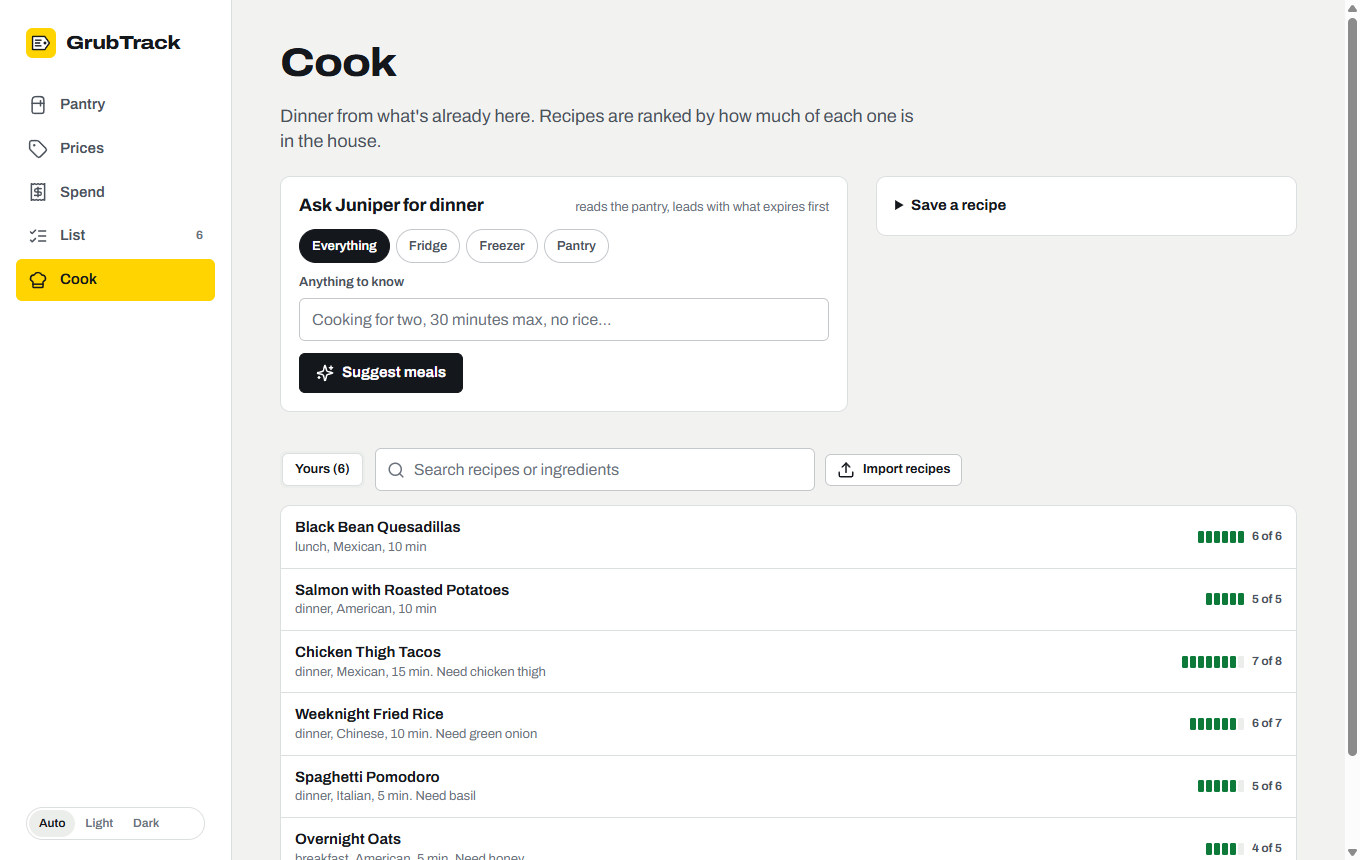
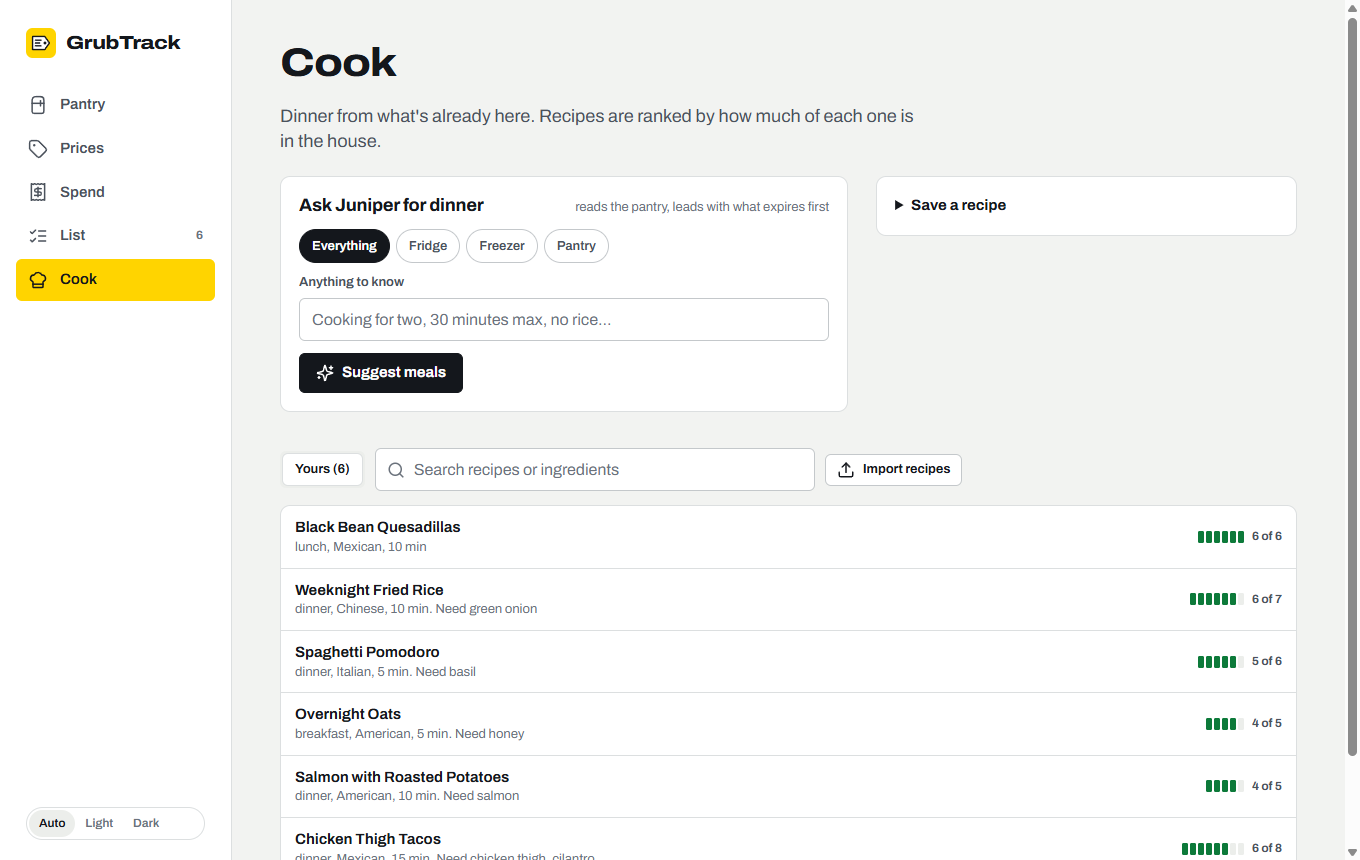
Fix the store sheet crash, the pantry stock line, phone tables and text slips

diff --git a/frontend/src/sheets/ProductSheet.jsx b/frontend/src/sheets/ProductSheet.jsx
@@ -141,19 +141,21 @@ export default function ProductSheet({ id, onClose }) {
           {p.stores?.length > 1 && (
             <div className="block">
               <div className="block-title">By store <small>{perLabel(b)}</small></div>
-              <table className="tbl">
-                <thead><tr><th>Store</th><th className="r">Last</th><th className="r">Average</th><th className="r">Bought</th></tr></thead>
-                <tbody>
-                  {p.stores.map((s) => (
-                    <tr key={s.storeId || 'none'}>
-                      <td><StoreKey id={s.storeId} name={s.store} /></td>
-                      <td className="r">{money(s.last, b)}</td>
-                      <td className="r">{money(s.avg, b)}</td>
-                      <td className="r">{s.n}×</td>
-                    </tr>
-                  ))}
-                </tbody>
-              </table>
+              <div className="tbl-wrap">
+                <table className="tbl">
+                  <thead><tr><th>Store</th><th className="r">Last</th><th className="r">Average</th><th className="r">Bought</th></tr></thead>
+                  <tbody>
+                    {p.stores.map((s) => (
+                      <tr key={s.storeId || 'none'}>
+                        <td><StoreKey id={s.storeId} name={s.store} /></td>
+                        <td className="r nowrap">{money(s.last, b)}</td>
+                        <td className="r nowrap">{money(s.avg, b)}</td>
+                        <td className="r nowrap">{s.n}×</td>
+                      </tr>
+                    ))}
+                  </tbody>
+                </table>
+              </div>
               {p.storeGap && <p className="note" style={{ marginTop: 8 }}>{p.storeGap.cheap} is {p.storeGap.pct}% cheaper than {p.storeGap.dear} on the latest shelf prices.</p>}
             </div>
           )}

diff --git a/frontend/src/sheets/RecipeSheet.jsx b/frontend/src/sheets/RecipeSheet.jsx
@@ -59,7 +59,11 @@ export default function RecipeSheet({ id, onClose }) {
     setEnrichErr(null)
     try { await post('/recipes/bulk/enrich', { slug: id }); qc.invalidateQueries({ queryKey: ['recipe', id] }) } catch (e) { setEnrichErr(e) } finally { setEnriching(false) }
   }
-  const body = r?.markdown ? r.markdown.replace(/^---[\s\S]*?\n---\s*\n/, '').replace(/^# .*\n/, '') : null
+  // the markdown below the title, without the Ingredients list (shown above, line by line) or a heading of its
+  // own for the method: the block is already titled Method
+  const body = r?.markdown ? r.markdown.replace(/^---[\s\S]*?\n---\s*\n/, '').replace(/^# .*\n/, '')
+    .replace(/##\s*Ingredients[\s\S]*?(?=\n##|$)/i, '')
+    .replace(/^\s*#{2,3}\s*(instructions|method|directions|steps|preparation)\s*\n/i, '').trim() : null
   return (
     <Sheet wide title={r?.title || 'Recipe'} onClose={onClose}
       footer={r && need.length > 0 && <button className="btn btn--ink" onClick={addMissing}><Plus aria-hidden="true" />Add {need.length} missing to the list</button>}>
@@ -97,7 +101,7 @@ export default function RecipeSheet({ id, onClose }) {
           <div className="block">
             <div className="block-title">Method</div>
             {body
-              ? <div className="md"><ReactMarkdown remarkPlugins={[remarkGfm]}>{body.replace(/##\s*Ingredients[\s\S]*?(?=\n##|$)/i, '')}</ReactMarkdown></div>
+              ? <div className="md"><ReactMarkdown remarkPlugins={[remarkGfm]}>{body}</ReactMarkdown></div>
               : <div className="md" style={{ whiteSpace: 'pre-wrap' }}>{r.instructions || 'No method recorded.'}</div>}
           </div>
           <div className="block">

diff --git a/frontend/src/styles/app.css b/frontend/src/styles/app.css
@@ -162,6 +162,9 @@ img { max-width: 100%; display: block; }
 .btn--danger { color: var(--up); }
 .btn[disabled] { opacity: 0.45; cursor: default; }
 .btn-row { display: flex; flex-wrap: wrap; gap: 8px; align-items: center; }
+/* a tappable word inside a sentence: no box and the sentence's own font, so the punctuation after it sits tight */
+.textbtn { display: inline; padding: 0; border: 0; background: none; font: inherit; font-weight: 600; color: inherit; cursor: pointer; }
+.textbtn:hover { text-decoration: underline; }
 
 .iconbtn {
   display: inline-grid; place-items: center; width: 40px; height: 40px;
@@ -298,6 +301,9 @@ img { max-width: 100%; display: block; }
 
 .storekey { display: inline-flex; align-items: center; gap: 6px; white-space: nowrap; }
 .storekey i { width: 9px; height: 9px; border-radius: 50%; flex: none; box-shadow: 0 0 0 2px var(--surface); }
+/* in a table cell a long store name wraps beside its dot instead of widening the table past a phone screen */
+.tbl .storekey { white-space: normal; align-items: flex-start; }
+.tbl .storekey i { margin-top: 0.4em; }
 
 /* --------------------------------------------------------------- lists */
 

diff --git a/frontend/src/sheets/StoreSheet.jsx b/frontend/src/sheets/StoreSheet.jsx
@@ -25,7 +25,7 @@ export default function StoreSheet({ id, onClose }) {
             {s.address ? `, ${s.address}` : ''}{s.city ? `, ${s.city}` : ''}{s.storeNumber ? `, store #${s.storeNumber}` : ''}.
           </p>
           <div className="figures block">
-            <div className="figure"><span>Trips</span><b>{s.trips}</b><small>{s.firstVisit ? `since ${shortDate(s.firstVisit)}` : ''}</small></div>
+            <div className="figure"><span>Trips</span><b>{s.tripCount ?? s.trips.length}</b><small>{s.firstVisit ? `since ${shortDate(s.firstVisit)}` : ''}</small></div>
             <div className="figure"><span>Spent</span><b>{dollars(s.spend, { cents: false })}</b><small>{s.avgBasket ? `${dollars(s.avgBasket, { cents: false })} a trip` : ''}</small></div>
             <div className="figure"><span>Saved</span><b>{dollars(s.saved || 0, { cents: false })}</b><small>sales and coupons</small></div>
             {idx && (

diff --git a/frontend/src/pages/List.jsx b/frontend/src/pages/List.jsx
@@ -22,7 +22,7 @@ function Line({ row, onDone }) {
         <span className="row__meta" style={{ display: 'block' }}>
           {e?.match ? (
             <>
-              <button className="btn btn--ghost btn--sm" style={{ padding: 0, minHeight: 0, fontWeight: 500, color: 'inherit' }} onClick={() => open('product', e.productId)}>
+              <button className="textbtn" onClick={() => open('product', e.productId)}>
                 {e.match === 'exact' || clean(e.product || '').toLowerCase() === clean(row.name).toLowerCase() ? 'Last time' : `Like ${e.product}`}
               </button>
               {e.range ? `, ${dollars(e.range[0])} to ${dollars(e.range[1])} across ${e.kinds} kinds` : ''}

diff --git a/frontend/src/pages/Pantry.jsx b/frontend/src/pages/Pantry.jsx
@@ -197,7 +197,7 @@ export default function Pantry() {
         </div>
         {view === 'past' && past.length > 0 && (
           <p className="note" style={{ marginTop: 14 }}>
-            Past their date and still on record. Nothing leaves unless you mark it, and marking keeps the record:
+            Past their date and still on record. Nothing leaves unless you mark it, and marking keeps the record:{' '}
             <b>Ate it</b> and <b>Tossed</b> feed the restock ideas and the waste numbers.
           </p>
         )}

diff --git a/tests/test_api.py b/tests/test_api.py
@@ -105,8 +105,13 @@ def test_receipt_flow_and_prices(client):
 
     sp = client.get("/api/spend").json()
     assert sp["spend"]["trips"][0]["total"] == 13.48
-    store = client.get(f"/api/stores/{sp['stores'][0]['id']}").json()
-    assert store["trips"] and store["products"]
+    listed = sp["stores"][0]
+    store = client.get(f"/api/stores/{listed['id']}").json()
+    # the store list counts trips; one store's page lists them (`trips`) and carries the count as `tripCount`,
+    # which the store sheet shows (it used to render the list itself and crash)
+    assert isinstance(listed["trips"], int) and isinstance(store["tripCount"], int)
+    assert store["tripCount"] == listed["trips"] == len(store["trips"]) == 1
+    assert store["trips"][0]["id"] == rid and store["trips"][0]["total"] == 13.48 and store["products"]
 
 
 def test_shopping_uses_the_shared_table(client):
@@ -134,6 +139,49 @@ def test_recipes_know_whats_in_the_house(client):
     assert client.post("/api/recipes", json={"title": "X"}).status_code == 403  # saving is off here
     assert client.put("/api/recipes/egg-fried-rice/journal", json={"score": 9, "tags": ["weeknight"]}).json()["ok"]
     assert client.get("/api/recipes/egg-fried-rice/journal").json()["entry"]["score"] == 9
+
+
+def test_past_date_food_is_not_on_hand_for_cooking(client):
+    """Recipe ranking and the meal-ideas prompt agree: food past its date counts for neither, food dated
+    today counts for both."""
+    import datetime as dt
+    from app.db import connect
+    from app.routes import cook
+
+    def prompt():
+        con = connect()
+        try:
+            return cook._meal_prompt(con, None, "")
+        finally:
+            con.close()
+
+    def soy_line():
+        rice = client.get("/api/recipes/egg-fried-rice").json()
+        return next(l for l in rice["lines"] if "soy sauce" in l["text"]), rice["make"]
+
+    soy = client.post("/api/items", json={"name": "Soy sauce", "storage": "pantry", "expirationDate": "2000-01-01"}).json()
+    line, make = soy_line()
+    assert line["have"] is False and "soy sauce" in make["need"]
+    assert "Soy sauce" not in prompt()
+    mine = next(r for r in client.get("/api/recipes").json()["personal"] if r["slug"] == "egg-fried-rice")
+    assert "soy sauce" in mine["make"]["need"]
+
+    client.patch(f"/api/items/{soy['id']}", json={"expirationDate": dt.date.today().isoformat()})
+    line, make = soy_line()
+    assert line["have"] is True and "soy sauce" not in make["need"]
+    assert "Soy sauce" in prompt()
+
+
+def test_overview_counts_whats_in_the_house(client):
+    """overview.stock is real numbers on every page that sends it (the Pantry page's "come to $X" line)."""
+    client.post("/api/items", json={"name": "Oat milk", "storage": "fridge", "price": 4.29, "expirationDate": "2099-01-01"})
+    items = client.get("/api/pantry").json()["items"]
+    priced = [i["price"] for i in items if isinstance(i["price"], (int, float))]
+    assert priced and len(priced) < len(items)   # some rows have no price, and they must not count
+    for page in ("pantry", "prices", "spend"):
+        stock = client.get(f"/api/{page}").json()["overview"]["stock"]
+        assert stock["items"] == len(items) and stock["priced"] == len(priced), page
+        assert stock["value"] == pytest.approx(sum(priced), abs=0.01), page
 
 
 def test_ai_jobs_without_any_ai(client):

diff --git a/skill/food-inventory/scripts/foodcore/intel.py b/skill/food-inventory/scripts/foodcore/intel.py
@@ -651,8 +651,9 @@ def estimate(con: sqlite3.Connection, names: list[str]) -> dict:
 
 def overview(con: sqlite3.Connection) -> dict:
     today = _today()
-    live = con.execute("SELECT COUNT(*), SUM(price IS NOT NULL), ROUND(SUM(price), 2) FROM items WHERE deletedAt IS NULL"
-                       ).fetchone()
+    num = "typeof(price) IN ('integer', 'real')"   # a price column anyone can write: text is not a price
+    held = con.execute(f"SELECT COUNT(*), SUM({num}), ROUND(SUM(CASE WHEN {num} THEN price END), 2) FROM items"
+                       " WHERE deletedAt IS NULL").fetchone()
     exp = con.execute(
         "SELECT SUM(expirationDate < ?), SUM(expirationDate BETWEEN ? AND date(?, '+3 days')),"
         " SUM(expirationDate BETWEEN ? AND date(?, '+7 days')) FROM items WHERE deletedAt IS NULL AND expirationDate IS NOT NULL",
@@ -663,14 +664,14 @@ def overview(con: sqlite3.Connection) -> dict:
     spend30 = sum(t["total"] or 0 for t in sp["trips"] if t["date"] >= last30) + \
         sum(o["price"] for o in sp["loose"] if o["date"] >= last30)
     infl = inflation(con)
-    live = "supersededBy IS NULL AND typeof(price) IN ('integer', 'real') AND price > 0"
-    n_products = con.execute(f"SELECT COUNT(DISTINCT productId) FROM purchases WHERE {live}").fetchone()[0]
-    n_obs = con.execute(f"SELECT COUNT(*), SUM(source = 'receipt') FROM purchases WHERE {live}").fetchone()
+    priced = "supersededBy IS NULL AND typeof(price) IN ('integer', 'real') AND price > 0"
+    n_products = con.execute(f"SELECT COUNT(DISTINCT productId) FROM purchases WHERE {priced}").fetchone()[0]
+    n_obs = con.execute(f"SELECT COUNT(*), SUM(source = 'receipt') FROM purchases WHERE {priced}").fetchone()
     review = con.execute("SELECT COUNT(*) FROM products WHERE (cat LIKE '%.other' OR confidence = 'low')"
                          " AND catSource = 'auto' AND id IN (SELECT productId FROM items WHERE deletedAt IS NULL"
                          " UNION SELECT productId FROM purchases WHERE supersededBy IS NULL)").fetchone()[0]
     return {
-        "stock": {"items": live[0], "priced": live[1] or 0, "value": live[2] or 0,
+        "stock": {"items": held[0], "priced": held[1] or 0, "value": held[2] or 0,
                   "expired": exp[0] or 0, "soon3": exp[1] or 0, "soon7": exp[2] or 0},
         "spend": {"last30": _r(spend30), "month": month, "trips": len(sp["trips"]),
                   "saved": _r(sum(_n(t["saved"]) for t in sp["trips"]))},

diff --git a/backend/app/routes/cook.py b/backend/app/routes/cook.py
@@ -37,11 +37,16 @@ def migrate_recipes(con) -> None:
 _ALWAYS = {"water", "salt", "black pepper", "ice", "spice"}
 ingredient_generic = recipes.ingredient_generic
 
+# In the house for cooking: still on record and not past its date. Recipe ranking and the meal-ideas prompt
+# both use it, so a recipe never counts food the prompt leaves out. (The prompt also leaves out the bar and
+# household rows to stay about food; ranking keeps the bar, since recipes call for wine and beer.)
+ON_HAND = "i.deletedAt IS NULL AND (i.expirationDate IS NULL OR i.expirationDate >= date('now','localtime'))"
+
 
 def stock_generics(con) -> set[str]:
     out = set()
     for r in con.execute("SELECT i.name, p.generic FROM items i LEFT JOIN products p ON p.id = i.productId"
-                         " WHERE i.deletedAt IS NULL").fetchall():
+                         f" WHERE {ON_HAND}").fetchall():
         if r["generic"]:
             out.add(r["generic"])
         g = classify(r["name"])["generic"]
@@ -407,10 +412,9 @@ async def parse(body: dict = Body(...)):
 
 def _meal_prompt(con, focus: str | None, extra: str) -> str:
     rows = con.execute(
-        "SELECT name, brand, storage, cat, quantity, unit, expirationDate FROM items WHERE deletedAt IS NULL"
-        " AND (expirationDate IS NULL OR expirationDate >= date('now','localtime'))"
-        " AND storage IN ('fridge','pantry','cupboard','freezer','counter') AND coalesce(dept,'') NOT IN ('bar','household')"
-        + (" AND storage = ?" if focus else "") + " ORDER BY expirationDate IS NULL, expirationDate, storage",
+        f"SELECT i.name, i.brand, i.storage, i.cat, i.quantity, i.unit, i.expirationDate FROM items i WHERE {ON_HAND}"
+        " AND i.storage IN ('fridge','pantry','cupboard','freezer','counter') AND coalesce(i.dept,'') NOT IN ('bar','household')"
+        + (" AND i.storage = ?" if focus else "") + " ORDER BY i.expirationDate IS NULL, i.expirationDate, i.storage",
         ((focus,) if focus else ())).fetchall()
     soon, rest = [], {}
     horizon = (dt.date.today() + dt.timedelta(days=4)).isoformat()

diff --git a/tests/test_intel.py b/tests/test_intel.py
@@ -99,3 +99,19 @@ def test_waste_ignores_corrections(cli, con):
     cli("delete", "--id", iid, "--notes", "tossed")  # deleted seconds after adding: a typo fixed
     w = intel.waste(con, 30)
     assert w["tossed"] == 0
+
+
+def test_overview_counts_stock_and_its_value(cli, con):
+    """The stock line is numbers: rows in the house, how many have a price, and what those come to. A row
+    that's gone doesn't count, and a price someone wrote as text isn't a price."""
+    cli("add", "--name", "Greek yogurt", "--storage", "fridge", "--price", "6.49")
+    cli("add", "--name", "Sourdough loaf", "--storage", "counter", "--price", "5.99")
+    cli("add", "--name", "Tofu", "--storage", "fridge")
+    cli("add", "--name", "Oat milk", "--storage", "fridge", "--price", "4.29")
+    gone = con.execute("SELECT id FROM items WHERE name = 'Oat milk'").fetchone()[0]
+    cli("delete", "--id", gone, "--notes", "eaten")
+    con.execute("UPDATE items SET price = 'about 3' WHERE name = 'Tofu'")
+    con.commit()
+    s = intel.overview(con)["stock"]
+    assert (s["items"], s["priced"]) == (3, 2)
+    assert s["value"] == pytest.approx(12.48)

diff --git a/backend/app/routes/spend.py b/backend/app/routes/spend.py
@@ -132,6 +132,9 @@ def store(sid: str, con=Depends(get_con)):
                      "lastDate": mine["lastDate"], "lastPrice": p["last"]["price"] if p["last"]["storeId"] == sid else None,
                      "other": best_other})
     s["products"] = here
+    # intel.stores() gives `trips` as a count (the Spend page's store list uses it). Here `trips` has always
+    # been this store's receipts, newest first, so the count moves to `tripCount` and the list keeps its name.
+    s["tripCount"] = s["trips"]
     s["trips"] = [t for t in intel.spend(con)["trips"] if t["storeId"] == sid]
     return s
 

diff --git a/README.md b/README.md
@@ -58,7 +58,7 @@ town called Maple Falls and six months of weekly trips.</sub>
 | <img src="docs/screenshots/pantry-past.png" width="100%" alt="The Pantry page showing past-date items with Ate it, Tossed and Still good buttons" /><br><sub>Past their date: nothing leaves until someone says it was eaten or tossed</sub> | <img src="docs/screenshots/prices.png" width="100%" alt="The Prices page: the cheaper store per product and the buying rhythm panel" /><br><sub>Prices: the cheaper store per product, and what's due on its usual rhythm</sub> |
 | <img src="docs/screenshots/spend.png" width="100%" alt="The Spend page: spend by month, by department and by store" /><br><sub>Spend: by month, by department, by store</sub> | <img src="docs/screenshots/receipt.png" width="100%" alt="A recorded receipt: each line with its category and the pantry row it stocked" /><br><sub>A recorded trip: every line, its category and the pantry row it stocked</sub> |
 | <img src="docs/screenshots/item.png" width="100%" alt="A pantry item: storage, category, its price tag and price history" /><br><sub>A pantry item: what it cost, where, and every purchase of it</sub> | <img src="docs/screenshots/list.png" width="100%" alt="The List page: six things with price estimates, the cheapest store per line, and restock ideas" /><br><sub>The list, priced at what you paid last, with restock ideas below</sub> |
-| <img src="docs/screenshots/cook.png" width="100%" alt="The Cook page: meal ideas from the agent and your recipes ranked by how much is in the house" /><br><sub>Cook: recipes ranked by how much of each is in the house</sub> | <img src="docs/screenshots/recipe.png" width="100%" alt="A recipe: each ingredient marked as in the house or missing, with a button to add the missing one to the list" /><br><sub>A recipe, line by line: what's here, and the missing one a tap from the list</sub> |
+| <img src="docs/screenshots/cook.png" width="100%" alt="The Cook page: meal ideas from the agent and your recipes ranked by how much is in the house" /><br><sub>Cook: recipes ranked by how much of each is in the house</sub> | <img src="docs/screenshots/recipe.png" width="100%" alt="A recipe: each ingredient marked as in the house or missing, with a button to add the missing ones to the list" /><br><sub>A recipe, line by line: what's here, and what's missing a tap from the list</sub> |
 
 | | | |
 |:---:|:---:|:---:|
@@ -182,8 +182,9 @@ Two kinds, both ranked by how much of each recipe is already in the house:
 Each recipe gets its protein, cuisine, dish type and time from its ingredients and categories. A
 recipe already in the library (same title, same ingredients) is skipped, so importing the same file
 twice is safe. **What I can make first** ranks recipes with at least three recognizable ingredients
-by how many are in the house. A recipe's page marks each ingredient as here or missing, adds the
-missing ones to the list in one tap, and keeps a journal: a score out of 10, tags, and how it went.
+by how many are in the house. Food past its date counts as missing, in the ranking and in meal ideas
+alike. A recipe's page marks each ingredient as here or missing, adds the missing ones to the list in
+one tap, and keeps a journal: a score out of 10, tags, and how it went.
 GrubTrack ships no recipe collection of its own.
 
 ## AI: a model, an agent, or both
